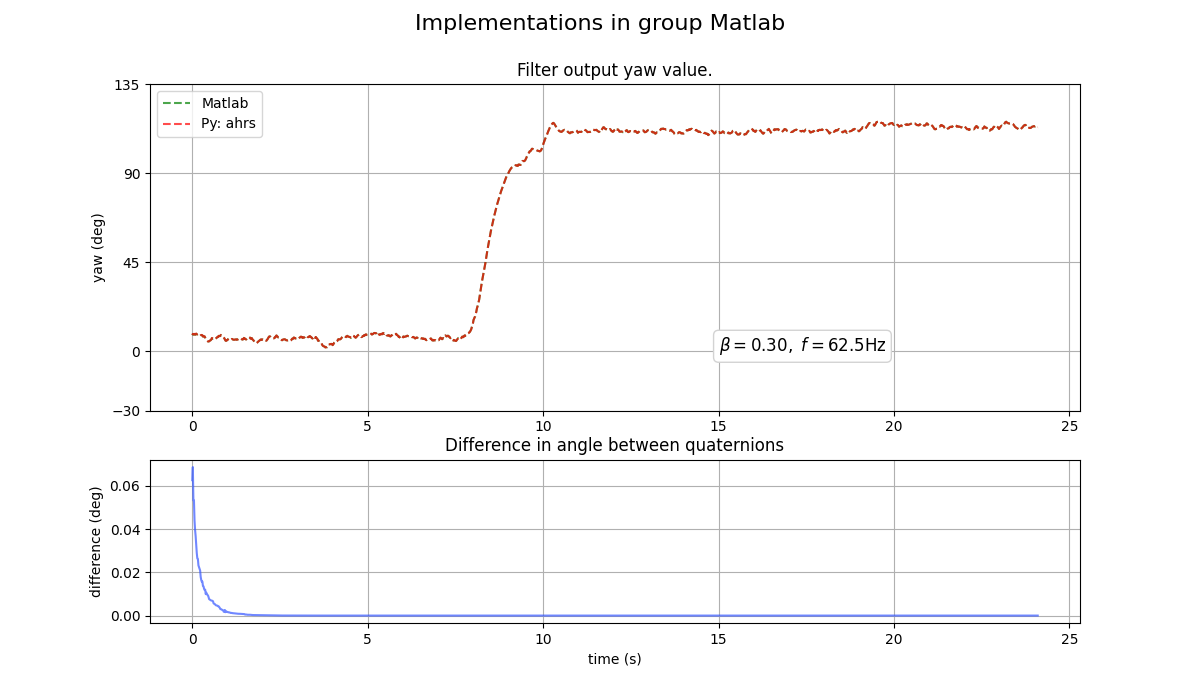
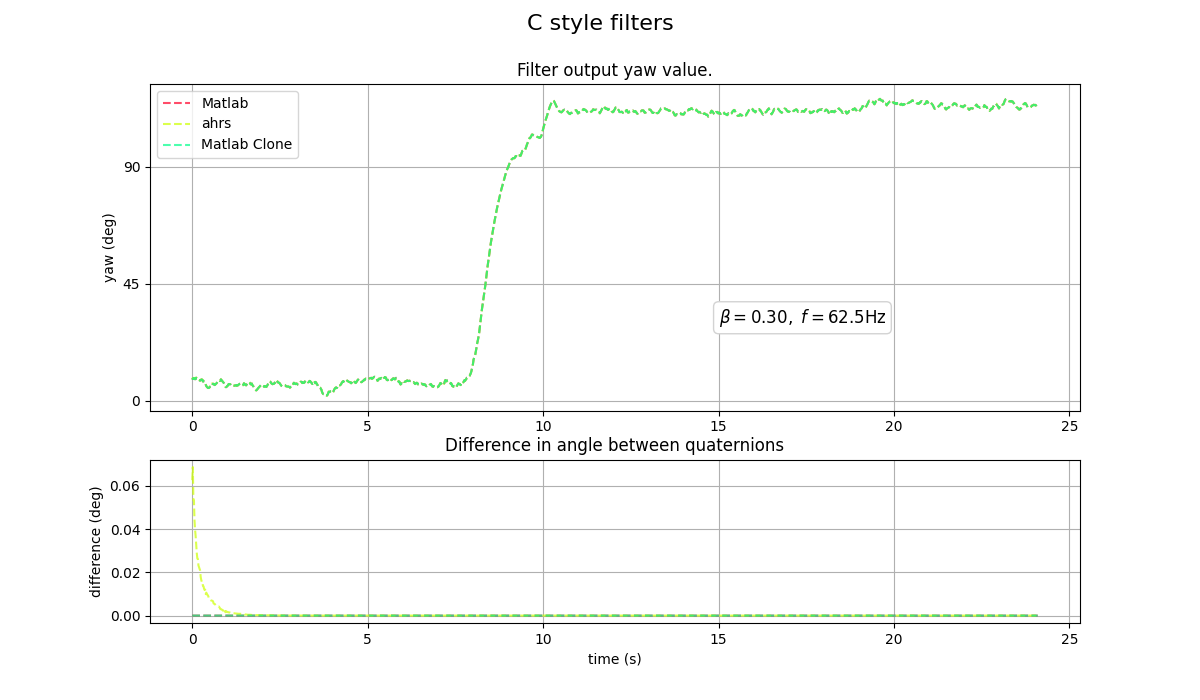
Add matlab clone

diff --git a/madfilters/py/matlab_clone/matlab_clone.py b/madfilters/py/matlab_clone/matlab_clone.py
@@ -1,0 +1,106 @@
+# Straight translation from Magdwick's Matlab code
+
+import numpy as np
+
+# Changed function definition
+# removed ;
+# Changed % comments to #
+# Changed (4)->[3], (3)->2, (2)->[1], (1)->[0]
+# Changed (:,4)->[3], (:,3)->[2], (:,2)->[1], (:,1) -> [0]
+# Changed (J'*F) -> J.T @ F
+# add return statements
+# add zero initializers (eg ab = np.zeros[4])
+# added , and [] to array definitions
+# added npa() around array definitions to turn them into np.ndarray
+# changed obj.SamplePeriod and obj.Beta to SamplePeriod and Beta
+# changed ].* -> ]*
+# Fix if statements
+# [0, Magnetometer] -> np.insert(Magnetometer, 0, 0)
+# ^ -> **
+norm = np.linalg.norm
+npa = np.array
+
+
+def quaternProd(a, b):
+
+    ab = np.zeros(4)
+
+    ab[0] = a[0]*b[0]-a[1]*b[1]-a[2]*b[2]-a[3]*b[3]
+    ab[1] = a[0]*b[1]+a[1]*b[0]+a[2]*b[3]-a[3]*b[2]
+    ab[2] = a[0]*b[2]-a[1]*b[3]+a[2]*b[0]+a[3]*b[1]
+    ab[3] = a[0]*b[3]+a[1]*b[2]-a[2]*b[1]+a[3]*b[0]
+
+    return ab
+
+
+def quaternConj(q):
+    qConj = npa( [q[0], -q[1], -q[2], -q[3]])
+    return qConj
+
+def Update(q, Gyroscope, Accelerometer, Magnetometer, Beta = 0.1, SamplePeriod = 1/512):
+    # Normalise accelerometer measurement
+    if (norm(Accelerometer) == 0):
+        return q   # handle NaN
+
+    Accelerometer = Accelerometer / norm(Accelerometer);	# normalise magnitude
+
+    # Normalise magnetometer measurement
+    if (norm(Magnetometer) == 0): 
+        return q   # handle NaN
+
+    Magnetometer = Magnetometer / norm(Magnetometer);	# normalise magnitude
+
+        # Reference direction of Earth's magnetic feild
+    h = quaternProd(q, quaternProd(np.insert(Magnetometer, 0, 0), quaternConj(q)))
+    b = [0, norm([h[1], h[2]]), 0, h[3]]
+
+    # Gradient decent algorithm corrective step
+    F = npa([2*(q[1]*q[3] - q[0]*q[2]) - Accelerometer[0],
+        2*(q[0]*q[1] + q[2]*q[3]) - Accelerometer[1],
+        2*(0.5 - q[1]**2 - q[2]**2) - Accelerometer[2],
+        2*b[1]*(0.5 - q[2]**2 - q[3]**2) + 2*b[3]*(q[1]*q[3] - q[0]*q[2]) - Magnetometer[0],
+        2*b[1]*(q[1]*q[2] - q[0]*q[3]) + 2*b[3]*(q[0]*q[1] + q[2]*q[3]) - Magnetometer[1],
+        2*b[1]*(q[0]*q[2] + q[1]*q[3]) + 2*b[3]*(0.5 - q[1]**2 - q[2]**2) - Magnetometer[2]])
+
+    J = npa([[-2*q[2],                 	2*q[3],                    -2*q[0],                         2*q[1]],
+        [2*q[1],                 	2*q[0],                    	2*q[3],                         2*q[2]],
+        [0,                         -4*q[1],                    -4*q[2],                         0],
+        [-2*b[3]*q[2],               2*b[3]*q[3],               -4*b[1]*q[2]-2*b[3]*q[0],       -4*b[1]*q[3]+2*b[3]*q[1]],
+        [-2*b[1]*q[3]+2*b[3]*q[1],	2*b[1]*q[2]+2*b[3]*q[0],	2*b[1]*q[1]+2*b[3]*q[3],       -2*b[1]*q[0]+2*b[3]*q[2]],
+        [2*b[1]*q[2],                2*b[1]*q[3]-4*b[3]*q[1],	2*b[1]*q[0]-4*b[3]*q[2],        2*b[1]*q[1]]])
+    step = J.T @ F
+    step = step / norm(step)	# normalise step magnitude
+
+    # Compute rate of change of quaternion
+    qDot = 0.5 * quaternProd(q, npa([0, Gyroscope[0], Gyroscope[1], Gyroscope[2]])) - Beta * step.T
+
+    # Integrate to yield quaternion
+    q = q + qDot * SamplePeriod
+    quat = q / norm(q) # normalise quaternion
+    return quat
+
+def UpdateIMU(q, Gyroscope, Accelerometer, Beta = 0.1, SamplePeriod = 1/512):
+
+    # # Normalise accelerometer measurement
+    # if(norm(Accelerometer) == 0):
+    #     return q	# handle NaN
+
+    # Accelerometer = Accelerometer / norm(Accelerometer)	# normalise magnitude
+
+    # # Gradient decent algorithm corrective step
+    # F = [2*(q[1]*q[3] - q[0]*q[2]) - Accelerometer[0]
+    #     2*(q[0]*q[1] + q[2]*q[3]) - Accelerometer[1]
+    #     2*(0.5 - q[1]**2 - q[2]**2) - Accelerometer[2]]
+    # J = [-2*q[2],	2*q[3],    -2*q[0],	2*q[1]
+    #     2*q[1],     2*q[0],     2*q[3],	2*q[2]
+    #     0,         -4*q[1],    -4*q[2],	0    ]
+    # step = J.T @ F
+    # step = step / norm(step)	# normalise step magnitude
+
+    # # Compute rate of change of quaternion
+    # qDot = 0.5 * quaternProd(q, [0 Gyroscope[0] Gyroscope[1] Gyroscope[2]]) - Beta * step'
+
+    # # Integrate to yield quaternion
+    # q = q + qDot * SamplePeriod
+    quat = q / norm(q) # normalise quaternion
+    return quat

diff --git a/experiment_5_mat_style/mat_style_filters.py b/experiment_5_mat_style/mat_style_filters.py
@@ -18,51 +18,59 @@ beta = 0.3
 
 acc, gyr, mag, times, q0, freq = io.load_sample_data()
 
-# Load data from matlab
-m_Q = io.sync_with_matlab('mat_out.pickle', acc, gyr, mag, q0, beta, freq)
-m_yaw = ot.q_to_aero_yaw(m_Q)
-
-
-# Through the ahrs module's madgwick
-ahrs_filter = py.AhrsMadgwick(beta=beta, freq=freq, q0=q0)
-ahrs_Q = ahrs_filter.update(acc, gyr, mag)
-ahrs_yaw = ot.q_to_aero_yaw(ahrs_Q)
-
-# Calculate differences in quaternions
-diff = ot.q_angle_diff_safe(ahrs_Q, m_Q)
-
-# %%
-# Plot figure
+# Set up figure
 
 fig = plt.figure(figsize=(12, 7), facecolor="w")
-
-fig.suptitle("Implementations in group Matlab", fontsize=16)
-
-spec = gridspec.GridSpec(ncols=1, nrows=2,
-                         height_ratios=[2, 1])
+fig.suptitle("Matlab-like filters", fontsize=16)
+spec = gridspec.GridSpec(ncols=1, nrows=2, height_ratios=[2, 1])
 
 ax0 = plt.subplot(spec[0])
-ax0.plot(times, m_yaw, '--g', label='Matlab', alpha=0.7)
-ax0.plot(times, ahrs_yaw, '--r', label='Py: ahrs', alpha=0.7)
-
-
-ax0.set(ylabel='yaw (deg)',
-        title="Filter output yaw value.")
+ax0.set(ylabel='yaw (deg)', title="Filter output yaw value.")
 ax0.grid()
-
-ax0.text(15, 0, rf'$\beta={beta:0.2f},\ f={freq:.1f} \mathrm{{Hz}}$',
-         fontsize=12, bbox=dict(boxstyle='round', fc='white', ec='lightgray'))
-
-ax0.legend()
-
 ax0.set_yticks([-30, 0, 45, 90, 135])
+ax0.text(15, 30, rf'$\beta={beta:0.2f},\ f={freq:.1f} \mathrm{{Hz}}$',
+         fontsize=12, bbox=dict(boxstyle='round', fc='white', ec='lightgray'))
 
 
 ax1 = plt.subplot(spec[1])
 ax1.set(xlabel='time (s)', ylabel='difference (deg)',
         title="Difference in angle between quaternions")
 ax1.grid()
-ax1.plot(times, diff, c='#3355ff', label='Unmod-sqrt', alpha=0.7)
+
+num_plots = 4
+curr_plot = 0
+
+cmap = plt.get_cmap('gist_rainbow')
+norm = matplotlib.colors.Normalize(vmin=0, vmax=num_plots)  
+
+# Load data from matlab
+Q_base = io.sync_with_matlab('mat_out.pickle', acc, gyr, mag, q0, beta, freq)
+
+def plot_filter_output(ax0, ax1, Q_base, Q, label):
+    global curr_plot
+    yaw = ot.q_to_aero_yaw(Q)
+    diff = ot.q_angle_diff_safe(Q_base, Q)
+
+    rgba = cmap(norm(curr_plot))
+    curr_plot += 1
+
+    ax0.plot(times, yaw, ls='--', c=rgba, label=label, alpha=0.7)
+    ax1.plot(times, diff, ls='--', c=rgba, label=label, alpha=0.7)
+
+plot_filter_output(ax0, ax1, Q_base, Q_base, "Matlab")
+
+
+# Through the ahrs module's madgwick
+Q = py.AhrsMadgwick(beta=beta, freq=freq, q0=q0).update(acc, gyr, mag)
+plot_filter_output(ax0, ax1, Q_base, Q, "ahrs")
+
+# Matlab clone
+Q = py.MatlabClone(beta=beta, freq=freq, q0=q0).update(acc, gyr, mag)
+plot_filter_output(ax0, ax1, Q_base, Q, "Matlab Clone")
+
+
+ax0.legend()
+
 
 plt.savefig("./exp5_mat_style.png", transparent=False)
 

diff --git a/madfilters/py/matlab_clone/matlab_clone_wrapper.py b/madfilters/py/matlab_clone/matlab_clone_wrapper.py
@@ -1,0 +1,45 @@
+"""Just wraps the matlab clone"""
+
+import numpy as np
+from .matlab_clone import Update as filter_update
+
+class MatlabClone:
+
+    def __init__(self, q0 = [1.0, 0.0, 0.0, 0.0], beta = 0.1, freq = 256):
+
+        q0 = np.array(q0)
+        self.set_q(q0)
+        self.set_freq(freq)
+        self.set_beta(beta)
+
+    
+    def set_q(self, q):
+        self.q = q.copy()
+    
+    def set_beta(self, beta):
+        self.beta = beta
+
+    def set_freq(self, freq):
+        self.Dt = 1 / freq
+
+    def update(self, acc, gyr, mag, q = None, beta = None, freq = None):
+        
+        if q is not None:
+            self.set_q(q)
+        
+        if beta is not None:
+            self.set_beta(beta)
+
+        if freq is not None:
+            self.set_freq(freq)
+
+        if isinstance(acc, np.ndarray) and acc.ndim == 2:
+            Q=np.zeros((len(acc), 4), dtype = np.double)
+
+            for t, _ in enumerate(acc):
+                self.q = filter_update(q=self.q, Gyroscope=gyr[t], Accelerometer=acc[t], Magnetometer=mag[t], Beta=self.beta, SamplePeriod=self.Dt)
+                Q[t, :] = self.q
+            return Q
+
+        self.q = filter_update(q=self.q, Gyroscope=gyr, Accelerometer=acc, Magnetometer=mag, Beta=self.beta, SamplePeriod=self.Dt)
+        return self.q

diff --git a/madfilters/py/__init__.py b/madfilters/py/__init__.py
@@ -1,1 +1,2 @@
 from .ahrs_madgwick.ahrs_wrapper import AhrsMadgwick
+from .matlab_clone.matlab_clone_wrapper import MatlabClone
